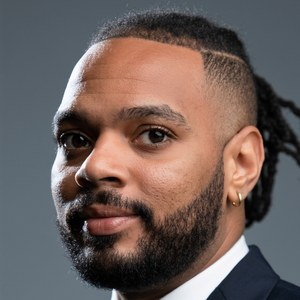
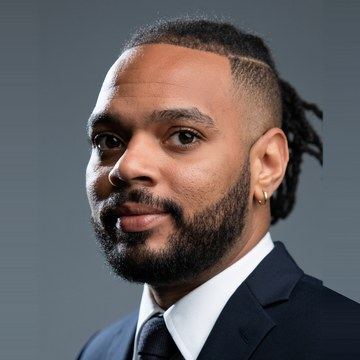
Email signature: larger headshot circle with a wider crop
Claude-Session: https://claude.ai/code/session_01UniXcNDLDYztsFE26TweER

diff --git a/docs/email-signature/signature.html b/docs/email-signature/signature.html
@@ -1,8 +1,8 @@
 <!-- Anthony Brown Sr. email signature. Images are served from the1pnation.com/assets/email/. -->
 <table cellpadding="0" cellspacing="0" border="0" role="presentation" style="border-collapse:collapse;font-family:'DM Sans',Montserrat,Arial,Helvetica,sans-serif;color:#000000;max-width:520px;">
   <tr>
-    <td valign="top" width="96" style="width:96px;min-width:96px;padding:0 16px 0 0;vertical-align:top;">
-      <a href="https://the1pnation.com" style="text-decoration:none;"><img src="https://the1pnation.com/assets/email/anthony-brown-headshot.jpg" width="96" height="96" alt="Anthony Brown Sr." style="display:block;width:96px;min-width:96px;max-width:96px;height:96px;border-radius:48px;border:0;"></a>
+    <td valign="top" width="124" style="width:124px;min-width:124px;padding:0 16px 0 0;vertical-align:top;">
+      <a href="https://the1pnation.com" style="text-decoration:none;"><img src="https://the1pnation.com/assets/email/anthony-brown-headshot.jpg" width="124" height="124" alt="Anthony Brown Sr." style="display:block;width:124px;min-width:124px;max-width:124px;height:124px;border-radius:62px;border:0;"></a>
     </td>
     <td valign="top" style="padding:0 0 0 16px;vertical-align:top;border-left:2px solid #000000;">
       <div style="font-size:20px;line-height:24px;font-weight:700;color:#000000;letter-spacing:-0.2px;">Anthony Brown Sr.</div>
